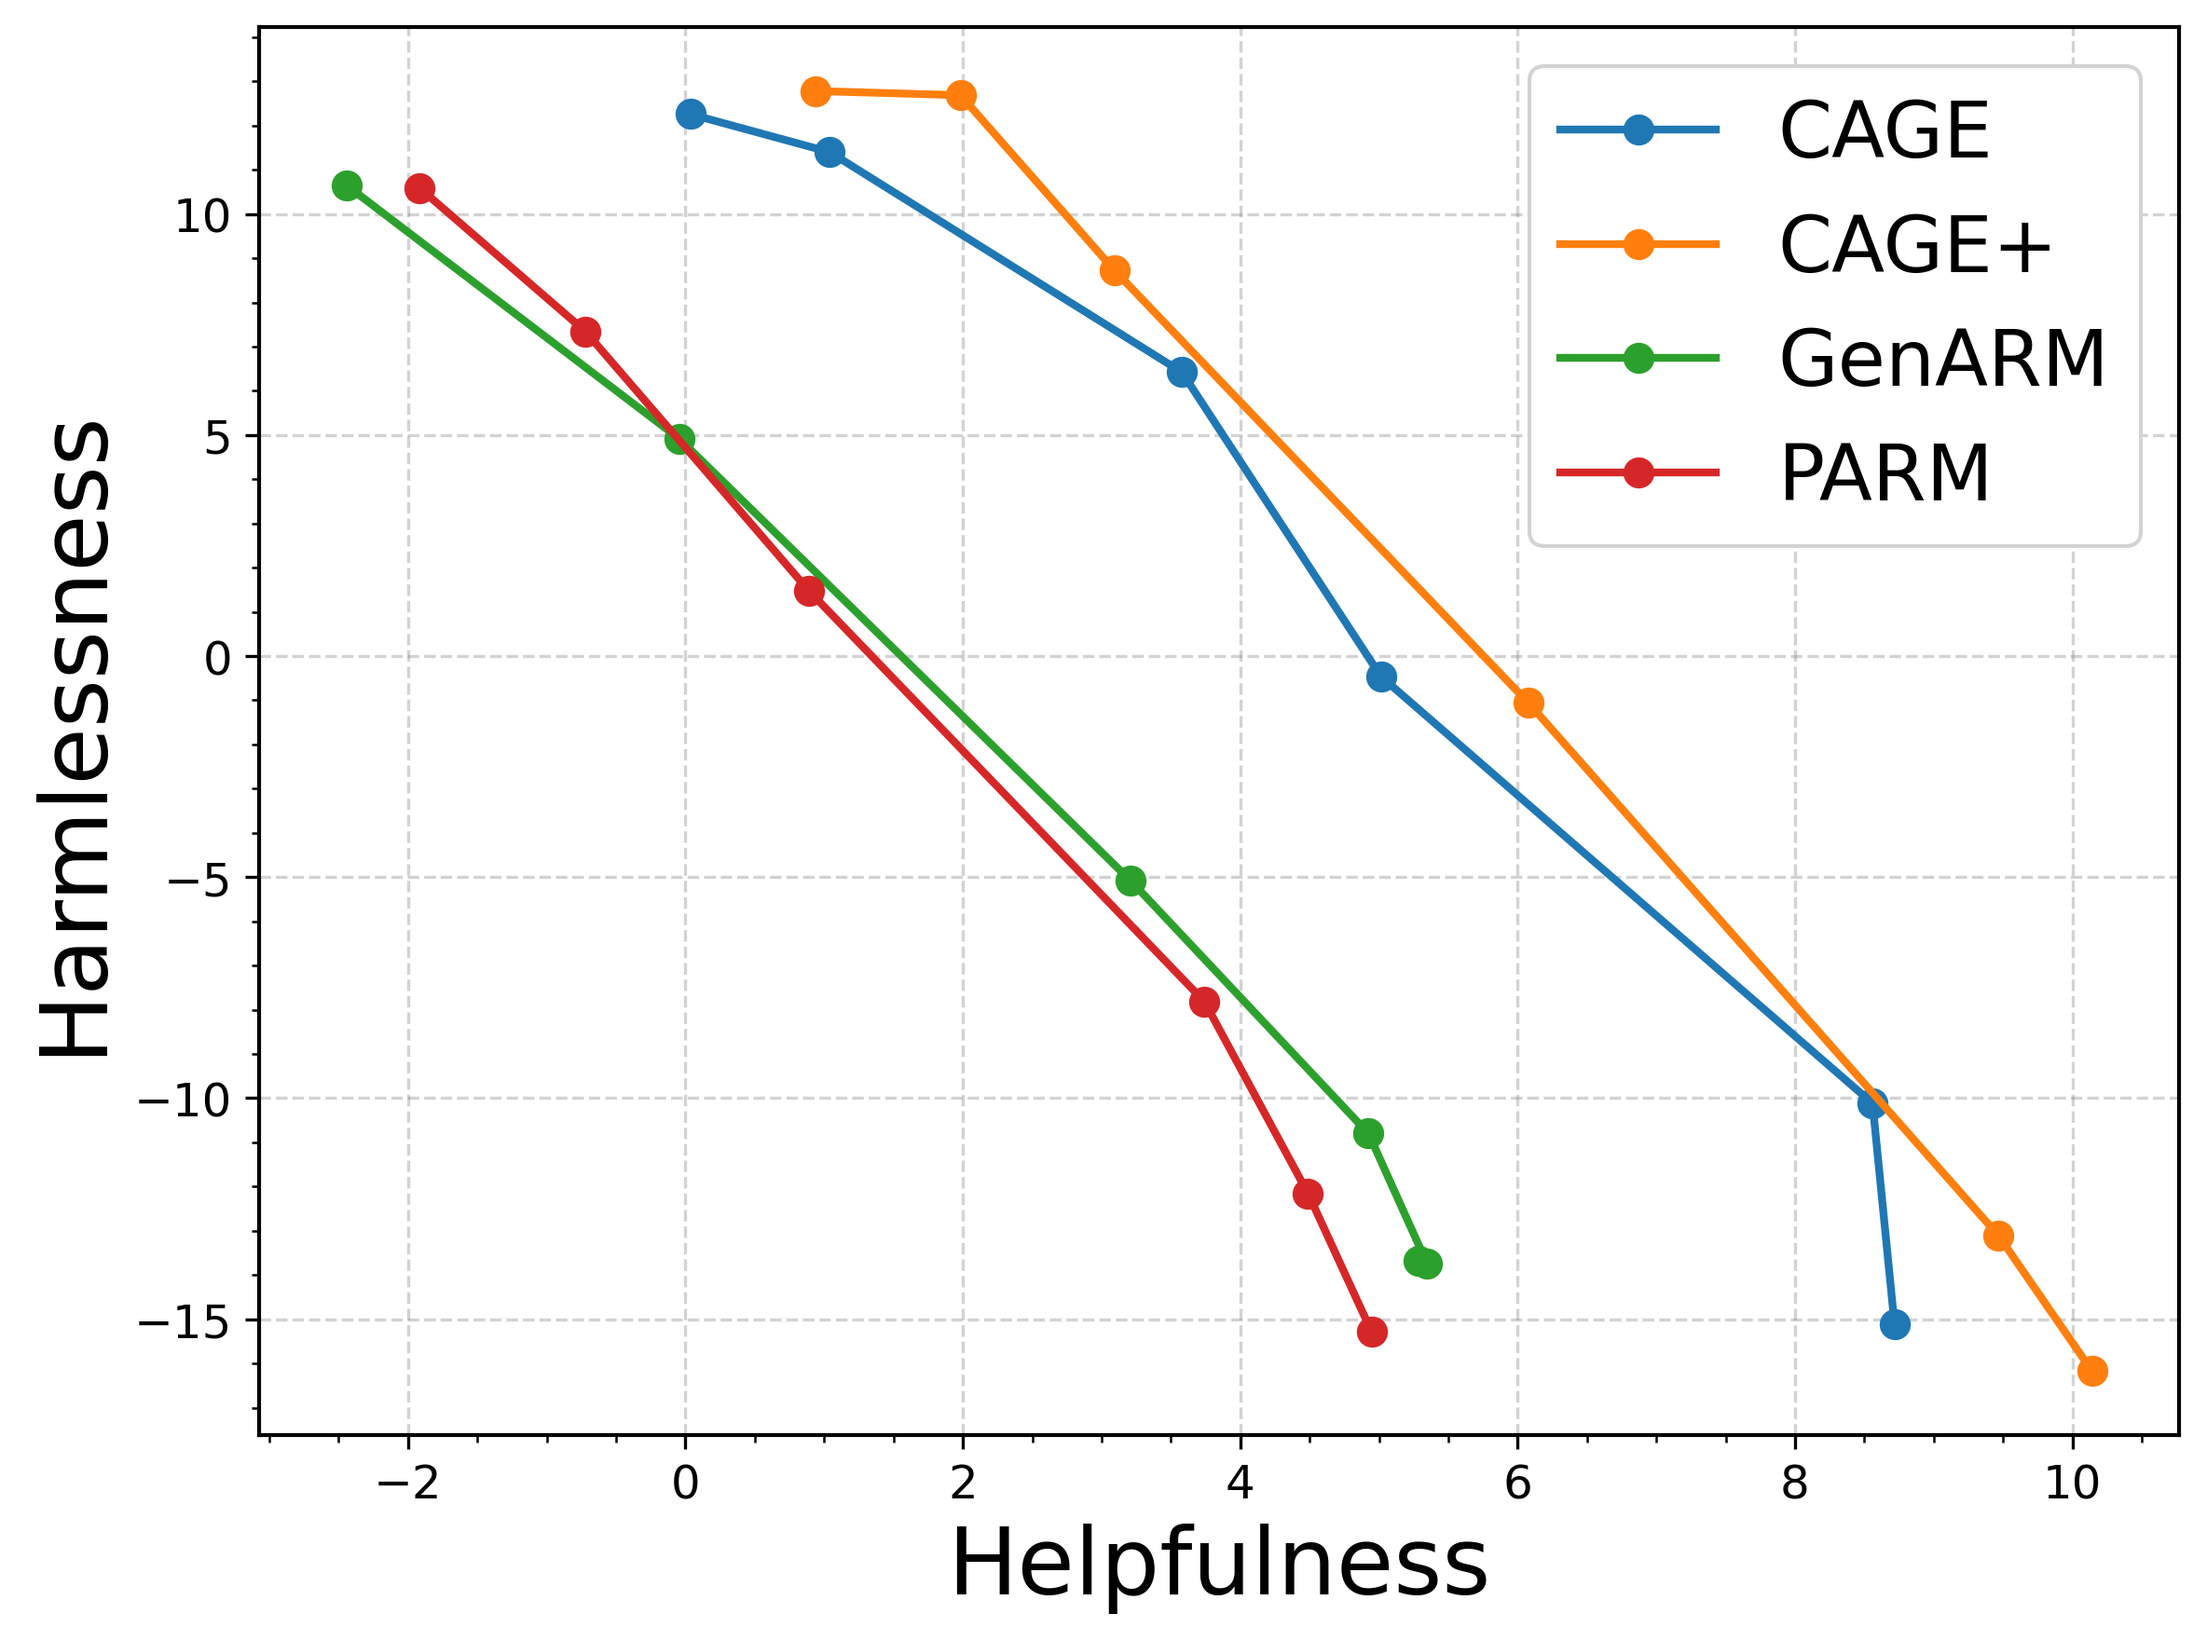
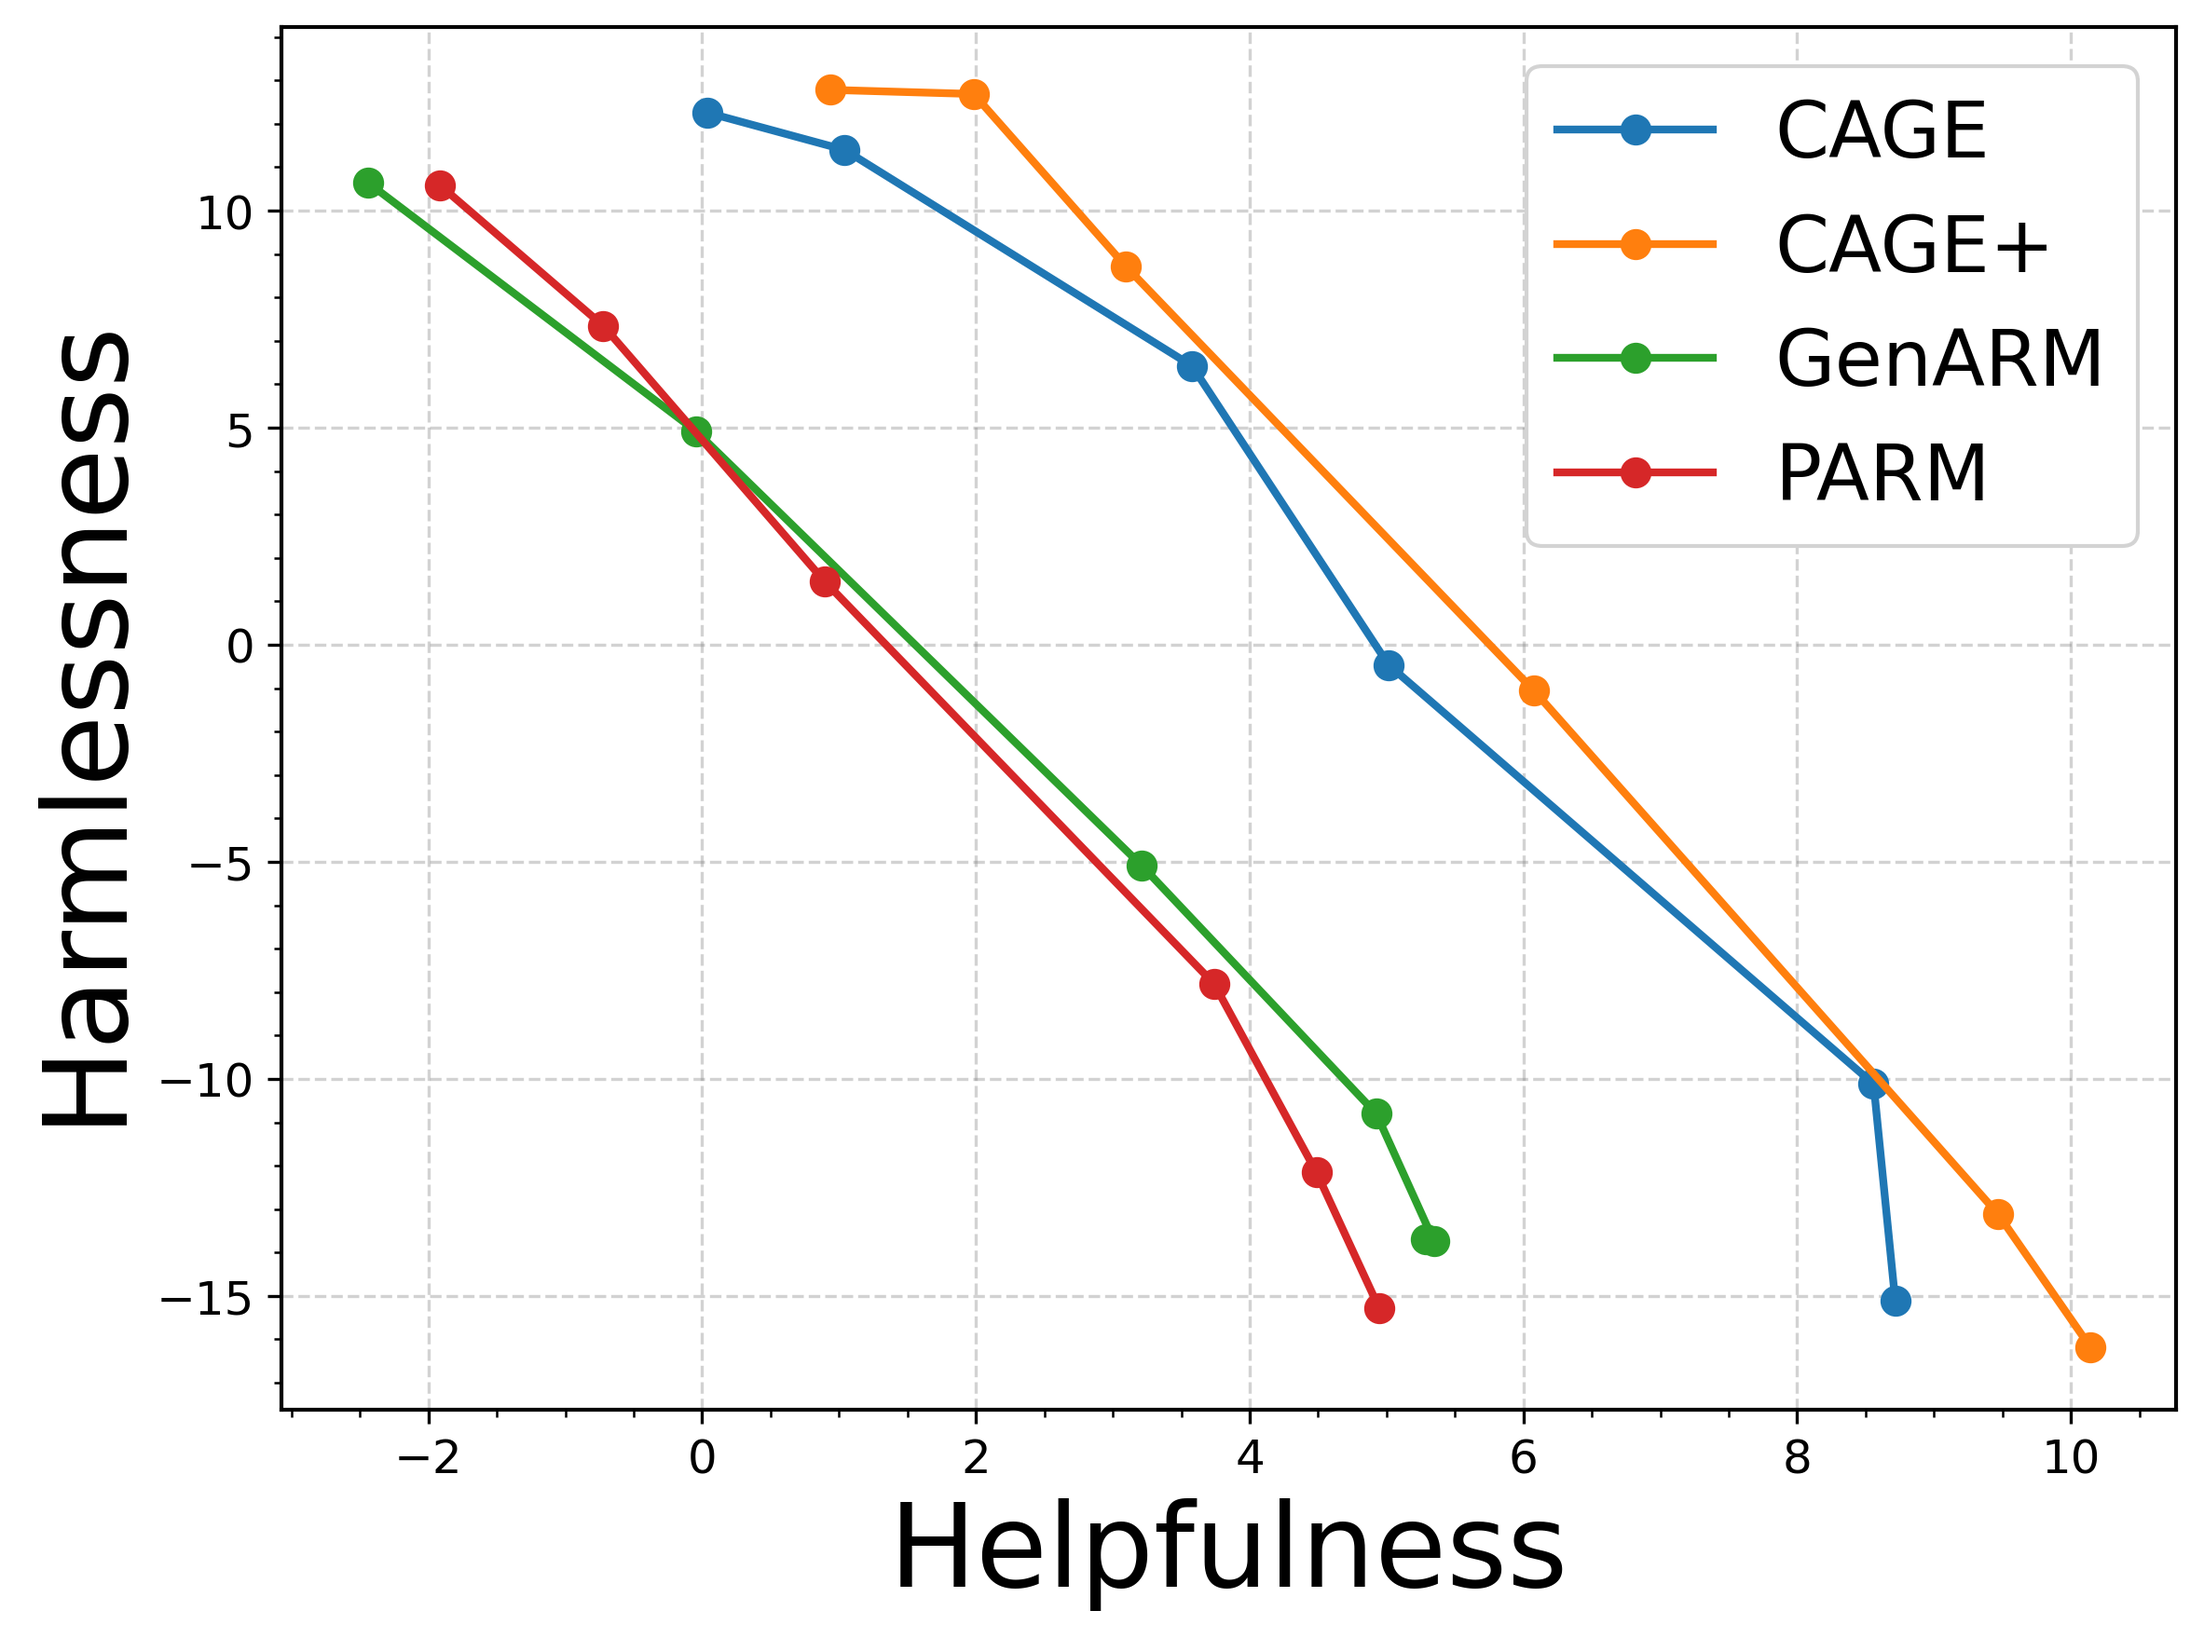
Upload common-agency to CAGE branch

diff --git a/code/evaluation/plot_pareto_tau.py b/code/evaluation/plot_pareto_tau.py
@@ -561,8 +561,8 @@ def main():
         annotate=False,
     )
 
-    ax.set_xlabel("Helpfulness", fontsize=24)
-    ax.set_ylabel("Harmlessness", fontsize=24)
+    ax.set_xlabel("Helpfulness", fontsize=30)
+    ax.set_ylabel("Harmlessness", fontsize=30)
 
     # 白底 + 浅灰网格
     ax.grid(
